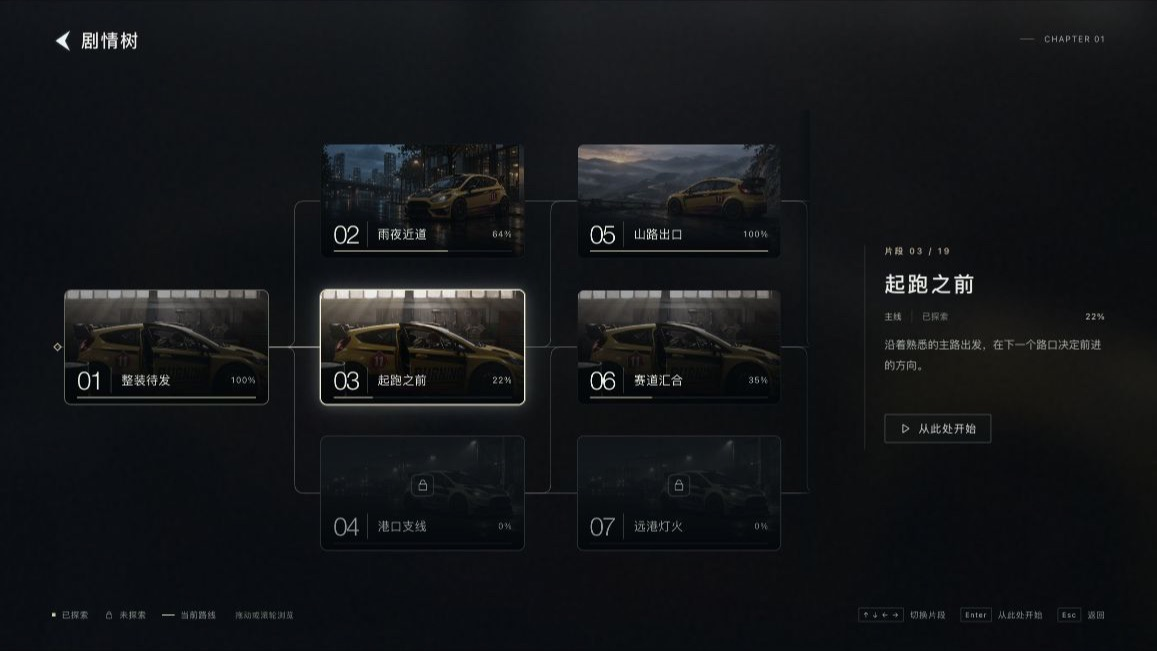
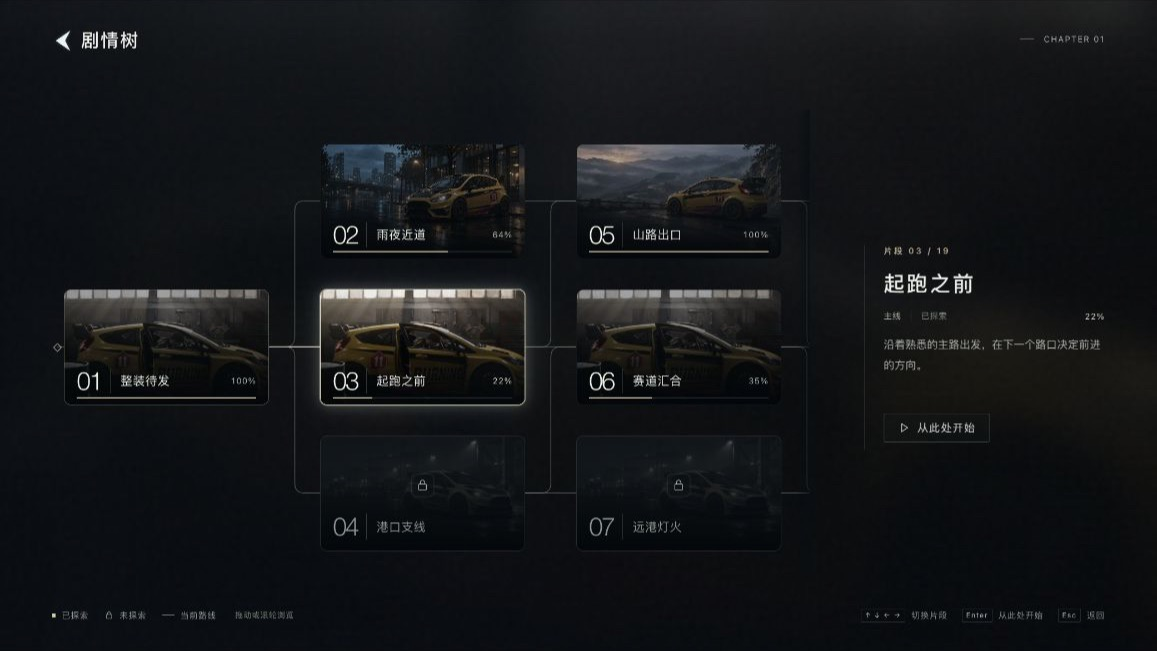
Show progress only for explored story nodes

diff --git a/compare.html b/compare.html
@@ -1,4 +1,4 @@
-<!doctype html><html lang="zh-CN"><head><meta charset="utf-8"><meta name="viewport" content="width=device-width,initial-scale=1"><title>Yoroll 游戏 UI · 改版对比与比例方案</title><link rel="icon" href="wall/assets/yoroll-icon.svg"><link rel="stylesheet" href="compare.css?v=tree-progress-line-20261113"></head>
+<!doctype html><html lang="zh-CN"><head><meta charset="utf-8"><meta name="viewport" content="width=device-width,initial-scale=1"><title>Yoroll 游戏 UI · 改版对比与比例方案</title><link rel="icon" href="wall/assets/yoroll-icon.svg"><link rel="stylesheet" href="compare.css?v=tree-lock-only-20261113"></head>
 <body><header class="report-header"><a class="brand" href="index.html"><img src="assets/yoroll-logo.png" alt="yoroll"></a><div><span>UI / MOTION STUDY</span><h1>更克制的比例，更连贯的节奏。</h1></div><a id="open-prototype" class="primary-link" href="index.html?page=home" target="_blank">打开交互原型 ↗</a></header>
 <div class="scope"><i></i><span>本地交互方案</span><span>14 个页面 / 状态</span><span>16:9 横版</span><span>未修改线上 Unity 游戏</span></div>
 <main class="report-layout"><aside class="page-sidebar"><div class="sidebar-title">逐页对比</div><nav id="page-list"></nav><a href="#proportions">比例调整方案 ↓</a><a href="#handoff">动效与交付说明 ↓</a></aside><article><section class="comparison-section"><div class="page-heading"><div><span id="page-kind" class="eyebrow"></span><h2 id="page-name"></h2></div><div class="page-switch"><button id="prev" aria-label="上一页">←</button><span id="page-count"></span><button id="next" aria-label="下一页">→</button></div></div>
@@ -6,4 +6,4 @@
 <div id="comparison" class="comparison fit-stage" data-mode="wipe"><div class="still-stage"><div class="before-layer"><img id="before-image" alt="修改前截图"><div id="no-before" class="no-before" hidden><span>—</span><h3>没有对应原版截图</h3><p id="before-note"></p></div><span class="picture-label before-label">原版</span></div><div class="after-layer" id="after-layer"><img id="after-image" alt="修改后截图"><span class="picture-label after-label">新版</span></div><div id="wipe-handle" class="wipe-handle"><span>↔</span></div><div class="safe-area" aria-hidden="true"><span>4.5% 水平安全区</span></div></div><div class="motion-stage" hidden><iframe id="motion-frame" title="页面动效预览"></iframe><div class="safe-area" aria-hidden="true"><span>4.5% 水平安全区</span></div></div></div>
 <div id="slider-row" class="slider-row"><span>新版更多</span><input id="wipe-slider" type="range" min="0" max="100" value="50" aria-label="新旧画面分割位置"><span>原版更多</span></div><p id="image-note" class="image-note"></p><div class="change-summary"><div><h3>布局与层级</h3><p id="change"></p></div><div><h3>比例</h3><p id="ratio"></p></div><div><h3>动效与操作</h3><p id="motion"></p><p id="interaction"></p></div></div></section>
 <section id="proportions" class="spec-section"><div class="section-heading"><span class="eyebrow">PROPORTION SYSTEM</span><h2>分别调整层级，建立统一的尺寸体系。</h2><p>以下均以 1920×1080 为设计基准。实际预览按画幅等比缩放，保持 16:9；水平安全区为画面宽度的 4.5%。原版数值来自截图估测。</p></div><div class="table-scroll"><table><thead><tr><th>项目</th><th>原版 · 约</th><th>新版</th><th>变化</th><th>调整目的</th></tr></thead><tbody id="proportion-table"></tbody></table></div><div class="principles"><div><span>01</span><h3>让场景成为主体</h3><p>减少全屏灰白覆盖和重高光。菜单、设置、弹窗用暗色虚化与局部明暗建立前后层次。</p></div><div><span>02</span><h3>控制视觉重量</h3><p>正文、辅助数值、主操作分别定标。保留大结果标题，收紧表单标签与导航控件。</p></div><div><span>03</span><h3>统一反馈语言</h3><p>细描边、短位移、柔和减速。悬停、按下、选中、取消与退出都给出明确回应。</p></div></div></section>
-<section id="handoff" class="spec-section"><div class="section-heading"><span class="eyebrow">MOTION SYSTEM</span><h2>一套进出场节奏，覆盖每个页面。</h2><p>页面退出 150ms，新页标题先入场，内容以 42–70ms 错峰，主体在约 0.8–1.1s 内落位。背景与封面 Logo 使用更长的缓慢收尾。</p></div><div class="motion-grid"><div><h3>常规入场</h3><strong>560–760<span> ms</span></strong><p>缓动 cubic-bezier(.16, 1, .3, 1)<br>上下位移约 8–24px，以设计基准计</p></div><div><h3>背景推近</h3><strong>3.6<span> s</span></strong><p>起止速度与加速度均为零<br>封面 100% → 103.5%，结束后停留</p></div><div><h3>确认弹窗</h3><strong>420<span> ms</span></strong><p>遮罩先淡入，弹窗轻浮落位<br>退出 150ms，取消后恢复焦点</p></div></div><div class="check-row"><span>✓ 页面切换</span><span>✓ 悬停 / 按下</span><span>✓ 键盘操作</span><span>✓ 弹窗焦点</span><span>✓ 减少动态效果适配</span><span>✓ 所有页面可重播</span><span>✓ Hover / 点击 / 切页音效</span></div><div class="file-links"><a href="design-tokens.json" download>下载尺寸与颜色参数</a><a href="motion-spec.json" download>下载逐页动效参数</a><a href="sound-spec.json" download>下载界面音效参数</a><a href="implementation-notes.txt" download>下载落地说明</a><a href="https://preview.game.yoroll.ai/?config=Race&test=1&lang=zh" target="_blank">查看原始预览 ↗</a></div><details open><summary>范围、素材与验证说明</summary><ul id="scope-notes"></ul><p>已检查主菜单、章节与剧情树导航；设置数值与语言下拉；新建存档和确认 / 取消；限时选择暂停计时；选择 → QTE → 结果链路；结果计至 100%。所有页面 / 状态均已保存本地截图。</p></details></section><footer class="report-footer">YOROLL · UI & MOTION EXPLORATION <span>2026.11.11 · 本地方案</span></footer></article></main><script src="report-data.js?v=tree-progress-line-20261113"></script><script src="compare.js?v=tree-progress-line-20261113"></script></body></html>
+<section id="handoff" class="spec-section"><div class="section-heading"><span class="eyebrow">MOTION SYSTEM</span><h2>一套进出场节奏，覆盖每个页面。</h2><p>页面退出 150ms，新页标题先入场，内容以 42–70ms 错峰，主体在约 0.8–1.1s 内落位。背景与封面 Logo 使用更长的缓慢收尾。</p></div><div class="motion-grid"><div><h3>常规入场</h3><strong>560–760<span> ms</span></strong><p>缓动 cubic-bezier(.16, 1, .3, 1)<br>上下位移约 8–24px，以设计基准计</p></div><div><h3>背景推近</h3><strong>3.6<span> s</span></strong><p>起止速度与加速度均为零<br>封面 100% → 103.5%，结束后停留</p></div><div><h3>确认弹窗</h3><strong>420<span> ms</span></strong><p>遮罩先淡入，弹窗轻浮落位<br>退出 150ms，取消后恢复焦点</p></div></div><div class="check-row"><span>✓ 页面切换</span><span>✓ 悬停 / 按下</span><span>✓ 键盘操作</span><span>✓ 弹窗焦点</span><span>✓ 减少动态效果适配</span><span>✓ 所有页面可重播</span><span>✓ Hover / 点击 / 切页音效</span></div><div class="file-links"><a href="design-tokens.json" download>下载尺寸与颜色参数</a><a href="motion-spec.json" download>下载逐页动效参数</a><a href="sound-spec.json" download>下载界面音效参数</a><a href="implementation-notes.txt" download>下载落地说明</a><a href="https://preview.game.yoroll.ai/?config=Race&test=1&lang=zh" target="_blank">查看原始预览 ↗</a></div><details open><summary>范围、素材与验证说明</summary><ul id="scope-notes"></ul><p>已检查主菜单、章节与剧情树导航；设置数值与语言下拉；新建存档和确认 / 取消；限时选择暂停计时；选择 → QTE → 结果链路；结果计至 100%。所有页面 / 状态均已保存本地截图。</p></details></section><footer class="report-footer">YOROLL · UI & MOTION EXPLORATION <span>2026.11.11 · 本地方案</span></footer></article></main><script src="report-data.js?v=tree-lock-only-20261113"></script><script src="compare.js?v=tree-lock-only-20261113"></script></body></html>

diff --git a/app.js b/app.js
@@ -287,11 +287,12 @@ function currentStoryState(){
  return state;
 }
 function storyProgressMarkup(node){
+ if(node.locked)return '';
  return `<span class="node-progress" role="progressbar" aria-label="游玩进度" aria-valuemin="0" aria-valuemax="100" aria-valuenow="${node.progress}"><span class="node-progress-track" aria-hidden="true"><span class="node-progress-fill" style="width:${node.progress}%"></span></span><span class="node-progress-value" aria-hidden="true">${node.progress}%</span></span>`;
 }
 function storyDetailMarkup(node){
  const count=storyTree.create(activeChapter()).nodes.length;
- return `<div class="eyebrow">片段 ${node.id} / ${count}</div><h2>${node.name}</h2><div class="tree-node-meta"><span>${node.route}</span><span>${node.locked?'已锁定':'已探索'}</span><span class="node-detail-progress" aria-label="游玩进度 ${node.progress}%">${node.progress}%</span></div><p>${node.description}</p>${node.locked?`<button class="btn btn-small" data-action="restart-node" disabled aria-disabled="true">${icon('lock')}<span>尚未解锁</span></button>`:button('从此处开始','restart-node','btn-small','play')}`;
+ return `<div class="eyebrow">片段 ${node.id} / ${count}</div><h2>${node.name}</h2><div class="tree-node-meta"><span>${node.route}</span><span>${node.locked?'已锁定':'已探索'}</span>${node.locked?'':`<span class="node-detail-progress" aria-label="游玩进度 ${node.progress}%">${node.progress}%</span>`}</div><p>${node.description}</p>${node.locked?`<button class="btn btn-small" data-action="restart-node" disabled aria-disabled="true">${icon('lock')}<span>尚未解锁</span></button>`:button('从此处开始','restart-node','btn-small','play')}`;
 }
 function treeView(){
  const chapter=activeChapter(),graph=storyTree.create(chapter),state=currentStoryState();
@@ -305,7 +306,7 @@ function treeView(){
  }).join('');
  const nodes=graph.nodes.map(node=>{
   const active=node.id===state.node,onRoute=state.path.includes(node.id);
-  return `<div class="tree-node-cell ${node.locked?'is-locked':''}" style="--node-x:${node.x};--node-y:${node.y}" data-enter="node" data-tree-depth="${node.column}" data-tree-row="${node.row}"><button class="tree-node ${active?'is-selected':''} ${onRoute?'is-route':''} ${node.locked?'is-locked':''}" data-story-node="${node.id}" aria-pressed="${active}" aria-disabled="${node.locked}" ${node.locked?'disabled':''} tabindex="${active&&!node.locked?0:-1}" aria-label="片段 ${node.id}，${node.name}，游玩进度 ${node.progress}%，${node.locked?'未探索，已锁定':'已探索，可重玩'}"><img src="${node.cover}" alt="" draggable="false">${storyProgressMarkup(node)}${node.locked?`<span class="node-lock" aria-hidden="true">${icon('lock')}</span>`:''}<div class="node-info"><span class="node-number" aria-hidden="true">${node.id}</span><strong>${node.name}</strong></div></button></div>`;
+  return `<div class="tree-node-cell ${node.locked?'is-locked':''}" style="--node-x:${node.x};--node-y:${node.y}" data-enter="node" data-tree-depth="${node.column}" data-tree-row="${node.row}"><button class="tree-node ${active?'is-selected':''} ${onRoute?'is-route':''} ${node.locked?'is-locked':''}" data-story-node="${node.id}" aria-pressed="${active}" aria-disabled="${node.locked}" ${node.locked?'disabled':''} tabindex="${active&&!node.locked?0:-1}" aria-label="片段 ${node.id}，${node.name}，${node.locked?'未探索，已锁定':`游玩进度 ${node.progress}%，已探索，可重玩`}"><img src="${node.cover}" alt="" draggable="false">${storyProgressMarkup(node)}${node.locked?`<span class="node-lock" aria-hidden="true">${icon('lock')}</span>`:''}<div class="node-info"><span class="node-number" aria-hidden="true">${node.id}</span><strong>${node.name}</strong></div></button></div>`;
  }).join('');
  return `${pageHeading('剧情树','chapters',`CHAPTER ${String(chapter.number).padStart(2,'0')}`)}<div class="tree-layout"><div class="tree-graph" role="group" aria-label="第 ${chapter.number} 章的剧情分支"><div class="tree-viewport" aria-label="可横向滚动的剧情分支"><div class="tree-board" style="--tree-board-width:${layout.width}"><svg class="tree-connections" viewBox="0 0 ${layout.width} ${layout.height}" aria-hidden="true"><path class="tree-origin-line" d="M 9 362 H 20"/>${edges}</svg><div class="tree-root" data-enter="tree-line"></div>${nodes}</div></div></div><aside class="tree-detail" data-enter="detail"><div class="tree-detail-content">${storyDetailMarkup(selected)}</div></aside></div>${footer(`<div class="tree-legend"><span><i class="legend-dot visited"></i> 已探索</span><span>${icon('lock')} 未探索</span><span><i class="legend-route"></i> 当前路线</span><span class="tree-browse-tip">拖动或滚轮浏览</span></div>`,'<span><span class="keycap">↑ ↓ ← →</span> 切换片段</span><span><span class="keycap">Enter</span> 从此处开始</span><span><span class="keycap">Esc</span> 返回</span>')}<div class="sr-only" id="tree-announcement" role="status" aria-live="polite"></div>`;
 }

diff --git a/compare.js b/compare.js
@@ -15,7 +15,7 @@ function updatePage(){
  $('#page-kind').textContent=page.kind;
  $('#page-count').textContent=`${String(index+1).padStart(2,'0')} / ${pages.length}`;
  $('#change').textContent=page.change;$('#ratio').textContent=page.ratio;$('#motion').textContent=page.motion;$('#interaction').textContent=page.interaction;
- $('#after-image').src=`comparison/after/${page.id}.jpg?v=tree-progress-line-20261113`;
+ $('#after-image').src=`comparison/after/${page.id}.jpg?v=tree-lock-only-20261113`;
  $('#after-image').alt=page.name+'修改后';
  $('#before-image').hidden=!page.before;
  $('#no-before').hidden=Boolean(page.before);
@@ -23,12 +23,12 @@ function updatePage(){
  else $('#before-image').removeAttribute('src');
  $('#before-note').textContent=page.kind==='沿用已定方案'?'沿用本聊天之前已确认的封面构图与素材。':'该状态未在这次线上预览中观察到。新版提供可操作的补充动效示例。';
  $('#image-note').textContent=mode==='motion'?'当前为可操作的实时动效。页面内可以继续导航，点击重播可回到所选页面。':page.before?'原版来自线上实际截图；新版为本地浏览器截图。底图部分不同，对比重点为 UI 占比、层级与位置。':'左侧保留来源说明；右侧展示本轮方案。点击「播放动效」体验完整入场。';
- $('#open-prototype').href=`index.html?page=${page.id}&revision=tree-progress-line-20261113`;
+ $('#open-prototype').href=`index.html?page=${page.id}&revision=tree-lock-only-20261113`;
  document.querySelectorAll('[data-page]').forEach(button=>{if(button.dataset.page===page.id)button.setAttribute('aria-current','page');else button.removeAttribute('aria-current');});
  history.replaceState(null,'','#'+page.id);
  if(mode==='motion')loadMotion();
 }
-function loadMotion(){const page=pages[index];$('#motion-frame').src=`index.html?page=${page.id}&capture=1&revision=tree-progress-line-20261113&replay=${++replay}`;}
+function loadMotion(){const page=pages[index];$('#motion-frame').src=`index.html?page=${page.id}&capture=1&revision=tree-lock-only-20261113&replay=${++replay}`;}
 function setMode(value){
  mode=value;$('#comparison').dataset.mode=mode;
  document.querySelectorAll('button[data-mode]').forEach(button=>button.setAttribute('aria-pressed',String(button.dataset.mode===mode)));

diff --git a/report-data.js b/report-data.js
@@ -56,7 +56,7 @@ window.YOROLL_REPORT = {
       "name": "剧情树",
       "before": "03-story-tree.jpg",
       "kind": "原版实拍 + 分支示例",
-      "change": "保留十九个节点、连续分岔与汇合以及横向浏览。每张卡片沿用此前的细横条与纯百分比进度样式，编号改为简洁的双位细体数字；未探索片段显示锁标、暗化并禁止选择与开始，当前选中片段保留柔和外发光。",
+      "change": "保留十九个节点、连续分岔与汇合以及横向浏览。已探索卡片使用细横条与纯百分比进度；未探索卡片仅显示锁定状态，省略百分比和进度线，编号改为简洁的双位细体数字；未探索片段显示锁标、暗化并禁止选择与开始，当前选中片段保留柔和外发光。",
       "ratio": "节点仍为 340×191.25px（16:9），横向间隙 85px、纵向间隙 51.125px。编号 42px、字重 300；底部进度线为 1px，百分比 14px 并位于右下方。图面仍为 2930×724px，右侧信息区固定。",
       "motion": "节点、连线和平移保留当前节奏。选中边框与柔光约 400ms 平滑交接；路线 540ms 展开，说明 100ms 淡出、420ms 落位。锁定节点没有 Hover 提亮或选中反馈。",
       "interaction": "六个已探索节点可选择和开始，十三个未探索节点原生禁用；鼠标、方向键、Home / End 只会选择可游玩节点，开始动作也再次检查权限。所有区域仍可拖动或滚轮浏览，包括锁定卡片；PageUp / PageDown 可浏览未来分支，返回保留节点和位置。"

diff --git a/index.html b/index.html
@@ -33,6 +33,6 @@
   <script src="ui-sound.js?v=master-mute-20261113"></script>
   <script src="home-music.js?v=master-mute-20261113"></script>
   <script src="story-tree.js?v=tree-states-20261113"></script>
-  <script src="app.js?v=tree-progress-line-20261113"></script>
+  <script src="app.js?v=tree-lock-only-20261113"></script>
 </body>
 </html>
